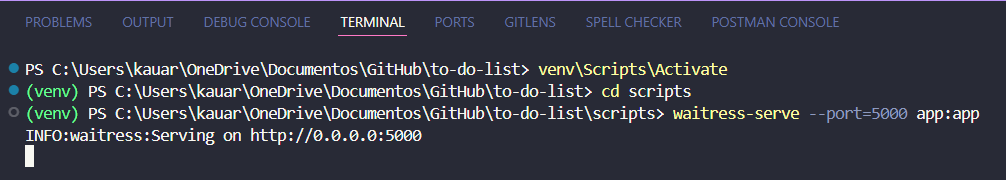
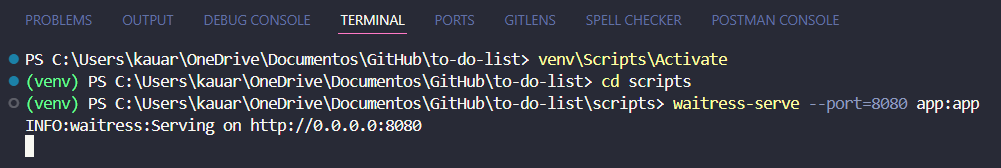
atualizando o README: terminal

diff --git a/README.md b/README.md
@@ -26,7 +26,8 @@ Após isso, o app é configurado:
 
 ![Imagem appconfig 3](images/appconfig3.png)
 
-A variável "app" é o que define a existência do app Flask, e a variável "db" define o banco de dados.
+A variável "app" é o que define a existência do app Flask, e a variável "db" define o banco de dados.<br>
+No cabeçalho, é definido também o endpoint do PostgreSQL, com o usuário, a senha e o nome do banco de dados.
 
 A decorator "@app.errorhandler" faz tratamento de erro, dependendo do erro que deve se achar. Nesse caso, ocorre tratamento de erro para bad request, não autorizado, não encontrado ou erro de servidor.
 
@@ -37,17 +38,21 @@ A descrição pode ter até 250 caracteres, mas não é obrigatória.<br>
 A variável "done" define se a tarefa foi concluída ou não, e é False por definição.<br>
 As variáveis "created_at" e "updated_at" se atualizam conforme a data em que uma criação ou atualização é feita no banco de dados.<br>
 
+Após isso, é definida uma função para agrupar as tarefas existentes:
+
+![Imagem appconfig 4](images/appconfig4.png)
+
 A função "task_to_dict" recebe um parâmetro task, que representa a tarefa em si, e retorna em forma de dicionário os dados dessa tarefa: ID, título, descrição, marcador de feita e data de criação/atualização.<br>
 Essa função será útil para o método "GET", que irá retornar todas as tarefas existentes.
 
-Após isso, temos um bloco específico que reinicia o banco de dados a cada vez que a API sofre deploy:
+Após isso, temos um bloco específico da fase de desenvolvimento da API que reinicia o banco de dados a cada vez que a API sofre deploy:
 
-![Imagem appconfig 4](images/appconfig4.png)
+![Imagem appconfig 5](images/appconfig5.png)
 
 As funções "drop_all" e "create_all" irão deletar o banco existente e criar um novo, respectivamente.
 
 Após isso, temos cada função básica de consulta, que são criar, acessar, atualizar e deletar dados do banco de dados da API. Importante ressaltar que todas as funções de consulta serão acompanhadas de duas decorators: @app.route e @requires_auth.<br>
-A decorator @app.route define a URL em que cada função poderá ser chamada. EX.: http://127.0.0.1:5000/tasks, para "POST" e "GET". Para "PUT" e "DELETE", a mesma URL, só que adicionando "/" e o ID da tarefa.<br>
+A decorator @app.route define a URL em que cada função poderá ser chamada. EX.: http://127.0.0.1:8080/tasks, para "POST" e "GET". Para "PUT" e "DELETE", a mesma URL, só que adicionando "/" e o ID da tarefa.<br>
 A decorator @requires_auth protege as rotas de cada função, obrigando o usuário a inserir um usuário e uma senha pré-cadastrados.
 
 
@@ -128,7 +133,7 @@ Caso deseje encerrar o servidor, digite CTRL+C no terminal.
 
 5. para rodar os testes com código, crie outro terminal e digite:<br>
 activate (ou venv\Scripts\Activate)<br>
-cd scripts
+cd tests
 
 ![Imagem Terminal 7](images/terminal7.png)
 
@@ -150,7 +155,7 @@ Primeiro, certifique-se de que você possui a extensão baixada. Caso não possu
 
 Com a extensão instalada, você já pode testar a API.
 
-1. com a API funcionando, insira no campo de URL a seguinte URL: http://127.0.0.1:5000/tasks
+1. com a API funcionando, insira no campo de URL a seguinte URL: http://127.0.0.1:8080/tasks
 
 ![Imagem Postman 4](images/postman4.png)
 
@@ -191,7 +196,7 @@ Você já deve possuir a biblioteca requests instalada no ambiente virtual. Port
 
 ![Imagem Requests 1](images/requests1.png)
 
-2. crie uma variável "url" que vai armazenar a URL principal da API: http://127.0.0.1:5000/tasks. Em seguida, crie um dicionário "json" contendo pelo menos o título da tarefa. Esse dicionário é a sua tarefa, que será enviada para o banco de dados.
+2. crie uma variável "url" que vai armazenar a URL principal da API: http://127.0.0.1:8080/tasks. Em seguida, crie um dicionário "json" contendo pelo menos o título da tarefa. Esse dicionário é a sua tarefa, que será enviada para o banco de dados.
 
 ![Imagem Requests 2](images/requests2.png)
 
@@ -199,7 +204,7 @@ Você já deve possuir a biblioteca requests instalada no ambiente virtual. Port
 
 ![Imagem Requests 3](images/requests3.png)
 
-4. para utilizar os métodos "PUT" e "DELETE", você precisará adicionar "/" e o ID da tarefa à URL. EX.: http://127.0.0.1:5000/tasks/1. Caso deseje, você pode alterar a tarefa que você criou ao alterar o dicionário que você criou no cabeçalho do código.
+4. para utilizar os métodos "PUT" e "DELETE", você precisará adicionar "/" e o ID da tarefa à URL. EX.: http://127.0.0.1:8080/tasks/1. Caso deseje, você pode alterar a tarefa que você criou ao alterar o dicionário que você criou no cabeçalho do código.
 
 ![Imagem Requests 4](images/requests4.png)
 
